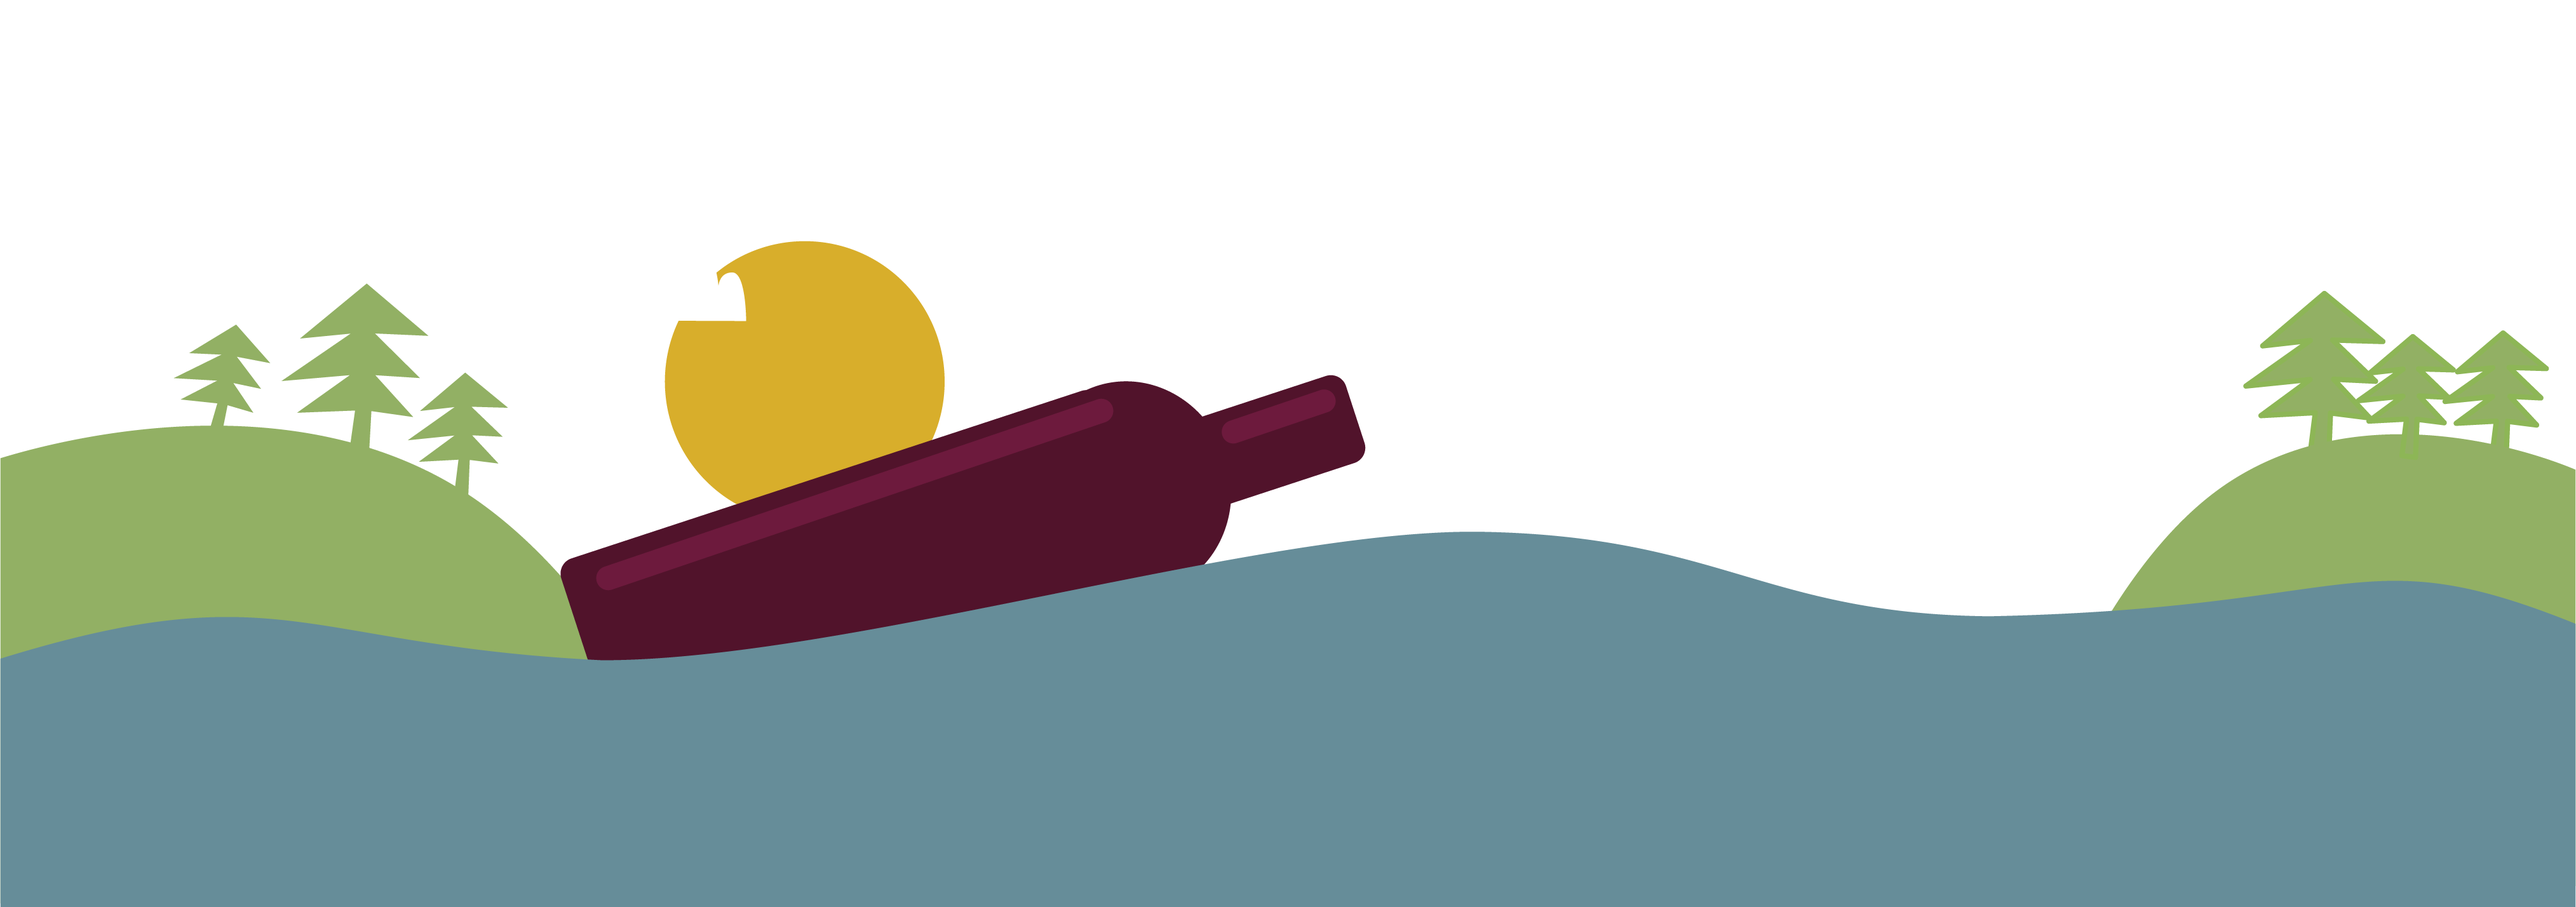
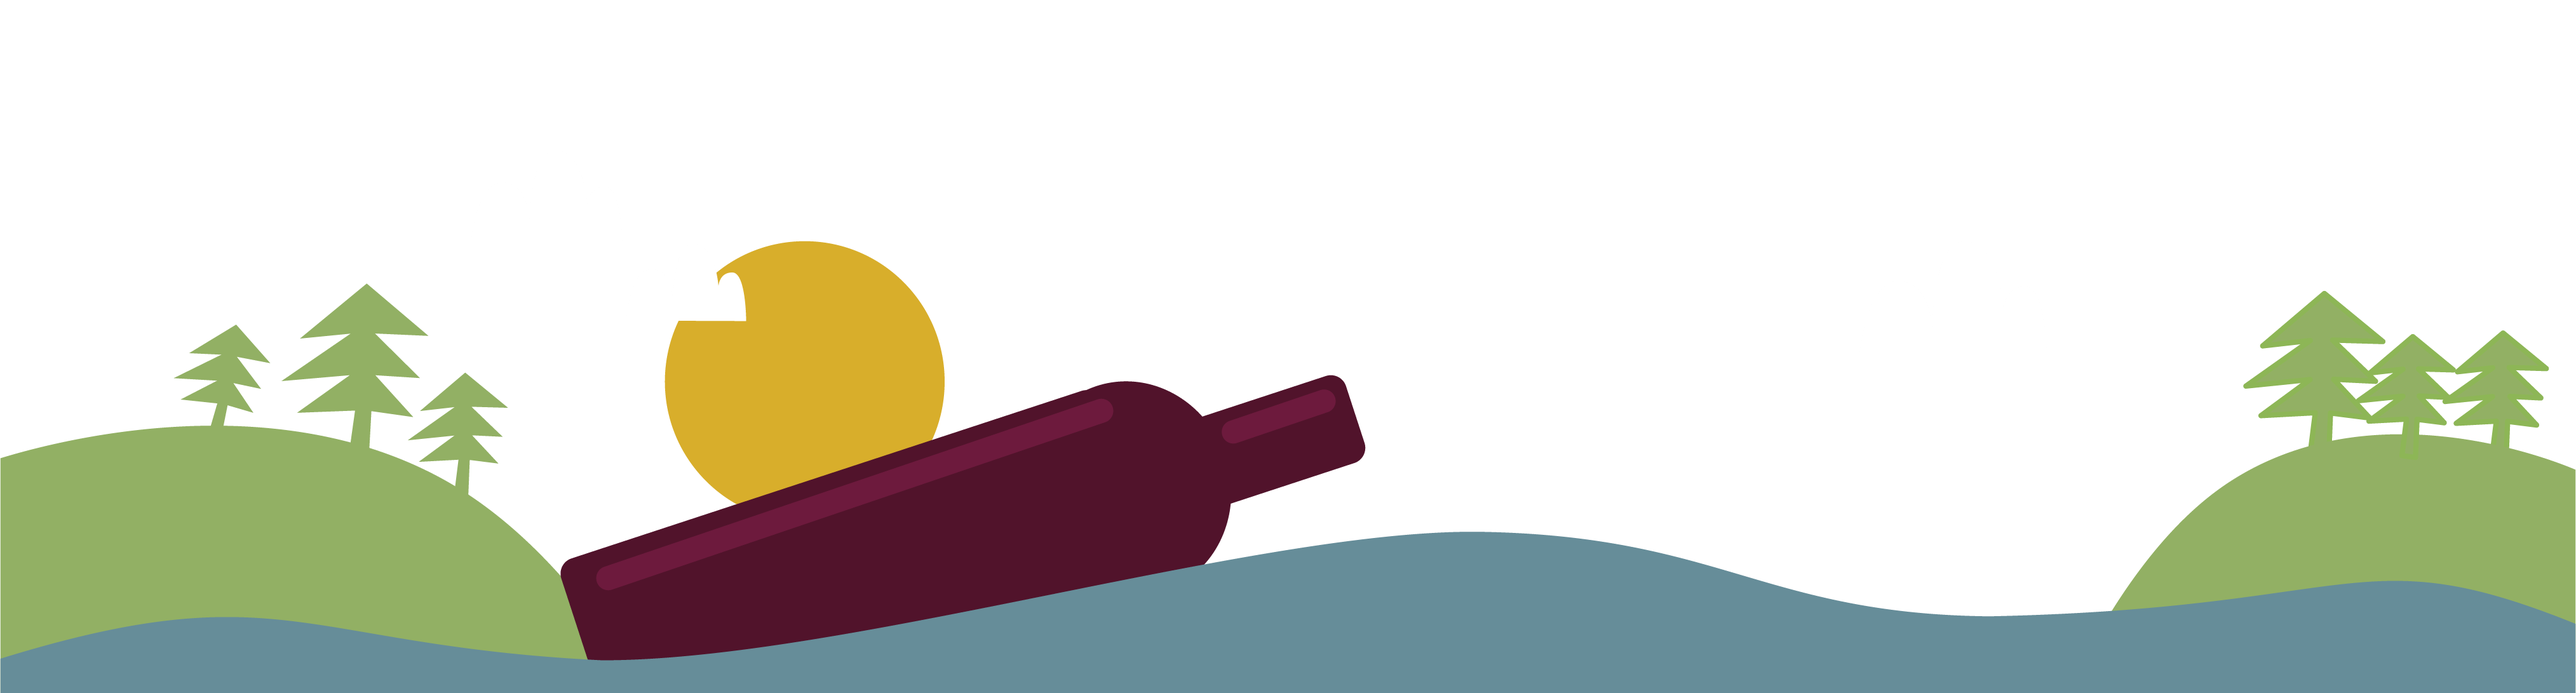
fixed the transitions

diff --git a/src/styles/general.scss b/src/styles/general.scss
@@ -9,6 +9,14 @@ h2 {
   text-transform: uppercase;
   font-weight: 600;
   letter-spacing: 2px;
+
+  @media(max-width: 768px){
+    font-size: 4rem;
+  }
+
+  @media(max-width: 500px){
+    font-size: 3.5rem;
+  }
 }
 
 h3 {
@@ -55,10 +63,42 @@ strong{
     font-family: $font-title;
 }
 
-.wavy-border{
-  background-image: url('../images/wavy-border.svg');
-  background-repeat: no-repeat;
-  img{
-    visibility: hidden ;
+
+section {
+  padding: 50px 0;
+}
+
+.section-container {
+  display: flex;
+  flex-direction: column;
+  align-items: center;
+  justify-content: center;
+  margin: 0 auto;
+  max-width: 1250px;
+  width: 95%;
+  text-align: center;
+
+  h2 {
+    margin-bottom: 50px;
+  }
+
+  p,
+  button {
+    margin: 25px 0px;
+    font-size: 2.5rem;
   }
 }
+
+// .bottle-transition{
+//   // margin: -100px 0;
+//   height: 300px;
+//   background-image: url("../images/floating-bottle-banner-01.png");
+//   background-position: bottom left;
+//   background-size: 900px;
+//   background-repeat: no-repeat;
+
+  
+//   @media(min-width: 900px){
+//     background-size: 100%;
+//   }
+// }

diff --git a/src/styles/_WhyReusable.scss b/src/styles/_WhyReusable.scss
@@ -2,21 +2,27 @@
     background-color: $color-light-sand;
     // background-image: url("../images/floating-bottle-banner-01.png");
     // background-position: bottom left;
-    // background-size: cover;
+    // background-size: 100%;
     // background-repeat: no-repeat;
-    padding-bottom: 0;
+    padding-bottom: 250px;
+    background-image: url("../images/floating-bottle-banner-01.png");
+    background-position: bottom left;
+    background-size: 900px;
+    background-repeat: no-repeat;
+  
+    @media(max-width: 500px){
+      background-size: 180%;
+    }
+    @media(min-width: 900px){
+      background-size: 100%;
+    }
+
     p{
       strong{
         color: $color-dark-plum
       }
     }
-    .bottle-transition{
-        margin-top: -8%;
-        margin-bottom: -100px;
-        min-width: 1000px;
-        z-index: -1;
-        img{
-          z-index: -1;
-        }
-    }
+    
+
+
   }

diff --git a/src/pages/index.js b/src/pages/index.js
@@ -10,6 +10,7 @@ import Mission from "../layouts/home/Mission"
 import Sustainability from "../layouts/home/Sustainability"
 import WhyReusable from "../layouts/home/WhyReusable"
 import Footer from "../layouts/Footer"
+
 import wavy from "../images/wavy-border.svg"
 
 // markup
@@ -19,15 +20,16 @@ const IndexPage = () => {
       <Header />
       <Welcome />
       <LearnMore />
-      <div className='wavy-border'>
+      <div className='wavy-border-transition'>
         {/* image added to maintain width and height ratios of background image, visibility hidden */}
-        <img src={wavy} alt='border'/>
+        <img src={wavy} alt='border' />
       </div>
       <HowItWorks />
       <WhyReusable />
+
       <Sustainability />
       <Mission />
-      <Footer/>
+      <Footer />
 
     </>
   )

diff --git a/src/styles/home.scss b/src/styles/home.scss
@@ -1,31 +1,3 @@
-section {
-  padding: 50px 0;
-}
-
-.section-container {
-  display: flex;
-  flex-direction: column;
-  align-items: center;
-  justify-content: center;
-  margin: 0 auto;
-  max-width: 1250px;
-  width: 95%;
-  text-align: center;
-
-  h2 {
-    margin-bottom: 50px;
-  }
-
-  p,
-  button {
-    margin: 25px 0px;
-    font-size: 2.5rem;
-  }
-}
-
-.wide-container {
-  max-width: 1200px;
-}
 
 
 #contact {
@@ -47,3 +19,13 @@ section {
     width: 250px;
   }
 }
+
+.wavy-border-transition{
+  background-image: url('../images/wavy-border.svg');
+  background-repeat: no-repeat;
+  img{
+    visibility: hidden ;
+  }
+}
+
+

diff --git a/src/layouts/home/WhyReusable.js b/src/layouts/home/WhyReusable.js
@@ -1,6 +1,6 @@
 import React from 'react'
 
-import transitionBottleImg from '../../images/floating-bottle-banner-02.png'
+
 
 const WhyReusable = (props) => {
 
@@ -14,9 +14,8 @@ const WhyReusable = (props) => {
                     <li><p>The U.S produces over <strong>4.8 billion bottles</strong> each year</p></li>
                 </ul>
             </div>
-            {/* <div className='bottle-transition'>
-                <img src={transitionBottleImg} alt='floating bottle transition image'/>
-            </div> */}
+            <div className='bottle-transition'>
+            </div>
         </section >
     )
 

diff --git a/src/styles/_Header.scss b/src/styles/_Header.scss
@@ -31,6 +31,8 @@ header {
     justify-content: center;
     align-items: center;
 
+
+
     .header-logo{
       max-width: 125px;
       width: 15%;
@@ -43,6 +45,10 @@ header {
       justify-content: space-evenly;
       align-items: center;
       width: 38%;
+
+      @media(max-width: 768px){
+       display: none;
+      }
 
     .nav-link{
       margin: 10px;

diff --git a/src/styles/_LearnMore.scss b/src/styles/_LearnMore.scss
@@ -2,9 +2,10 @@
 #learn-more {
     background-color: $color-dark-plum;
     color: white;
-  
+    padding-bottom: 0;
     .section-container{
         flex-direction: row;
+        
         @media(max-width: 768px){
           width: 85%;
         }

diff --git a/src/styles/_Sustainability.scss b/src/styles/_Sustainability.scss
@@ -26,6 +26,8 @@
 
     @media(max-width: 768px){
       background-image: none;
+      background-size: auto;
+      background-position: 0px 0px;
     }
   }
 
